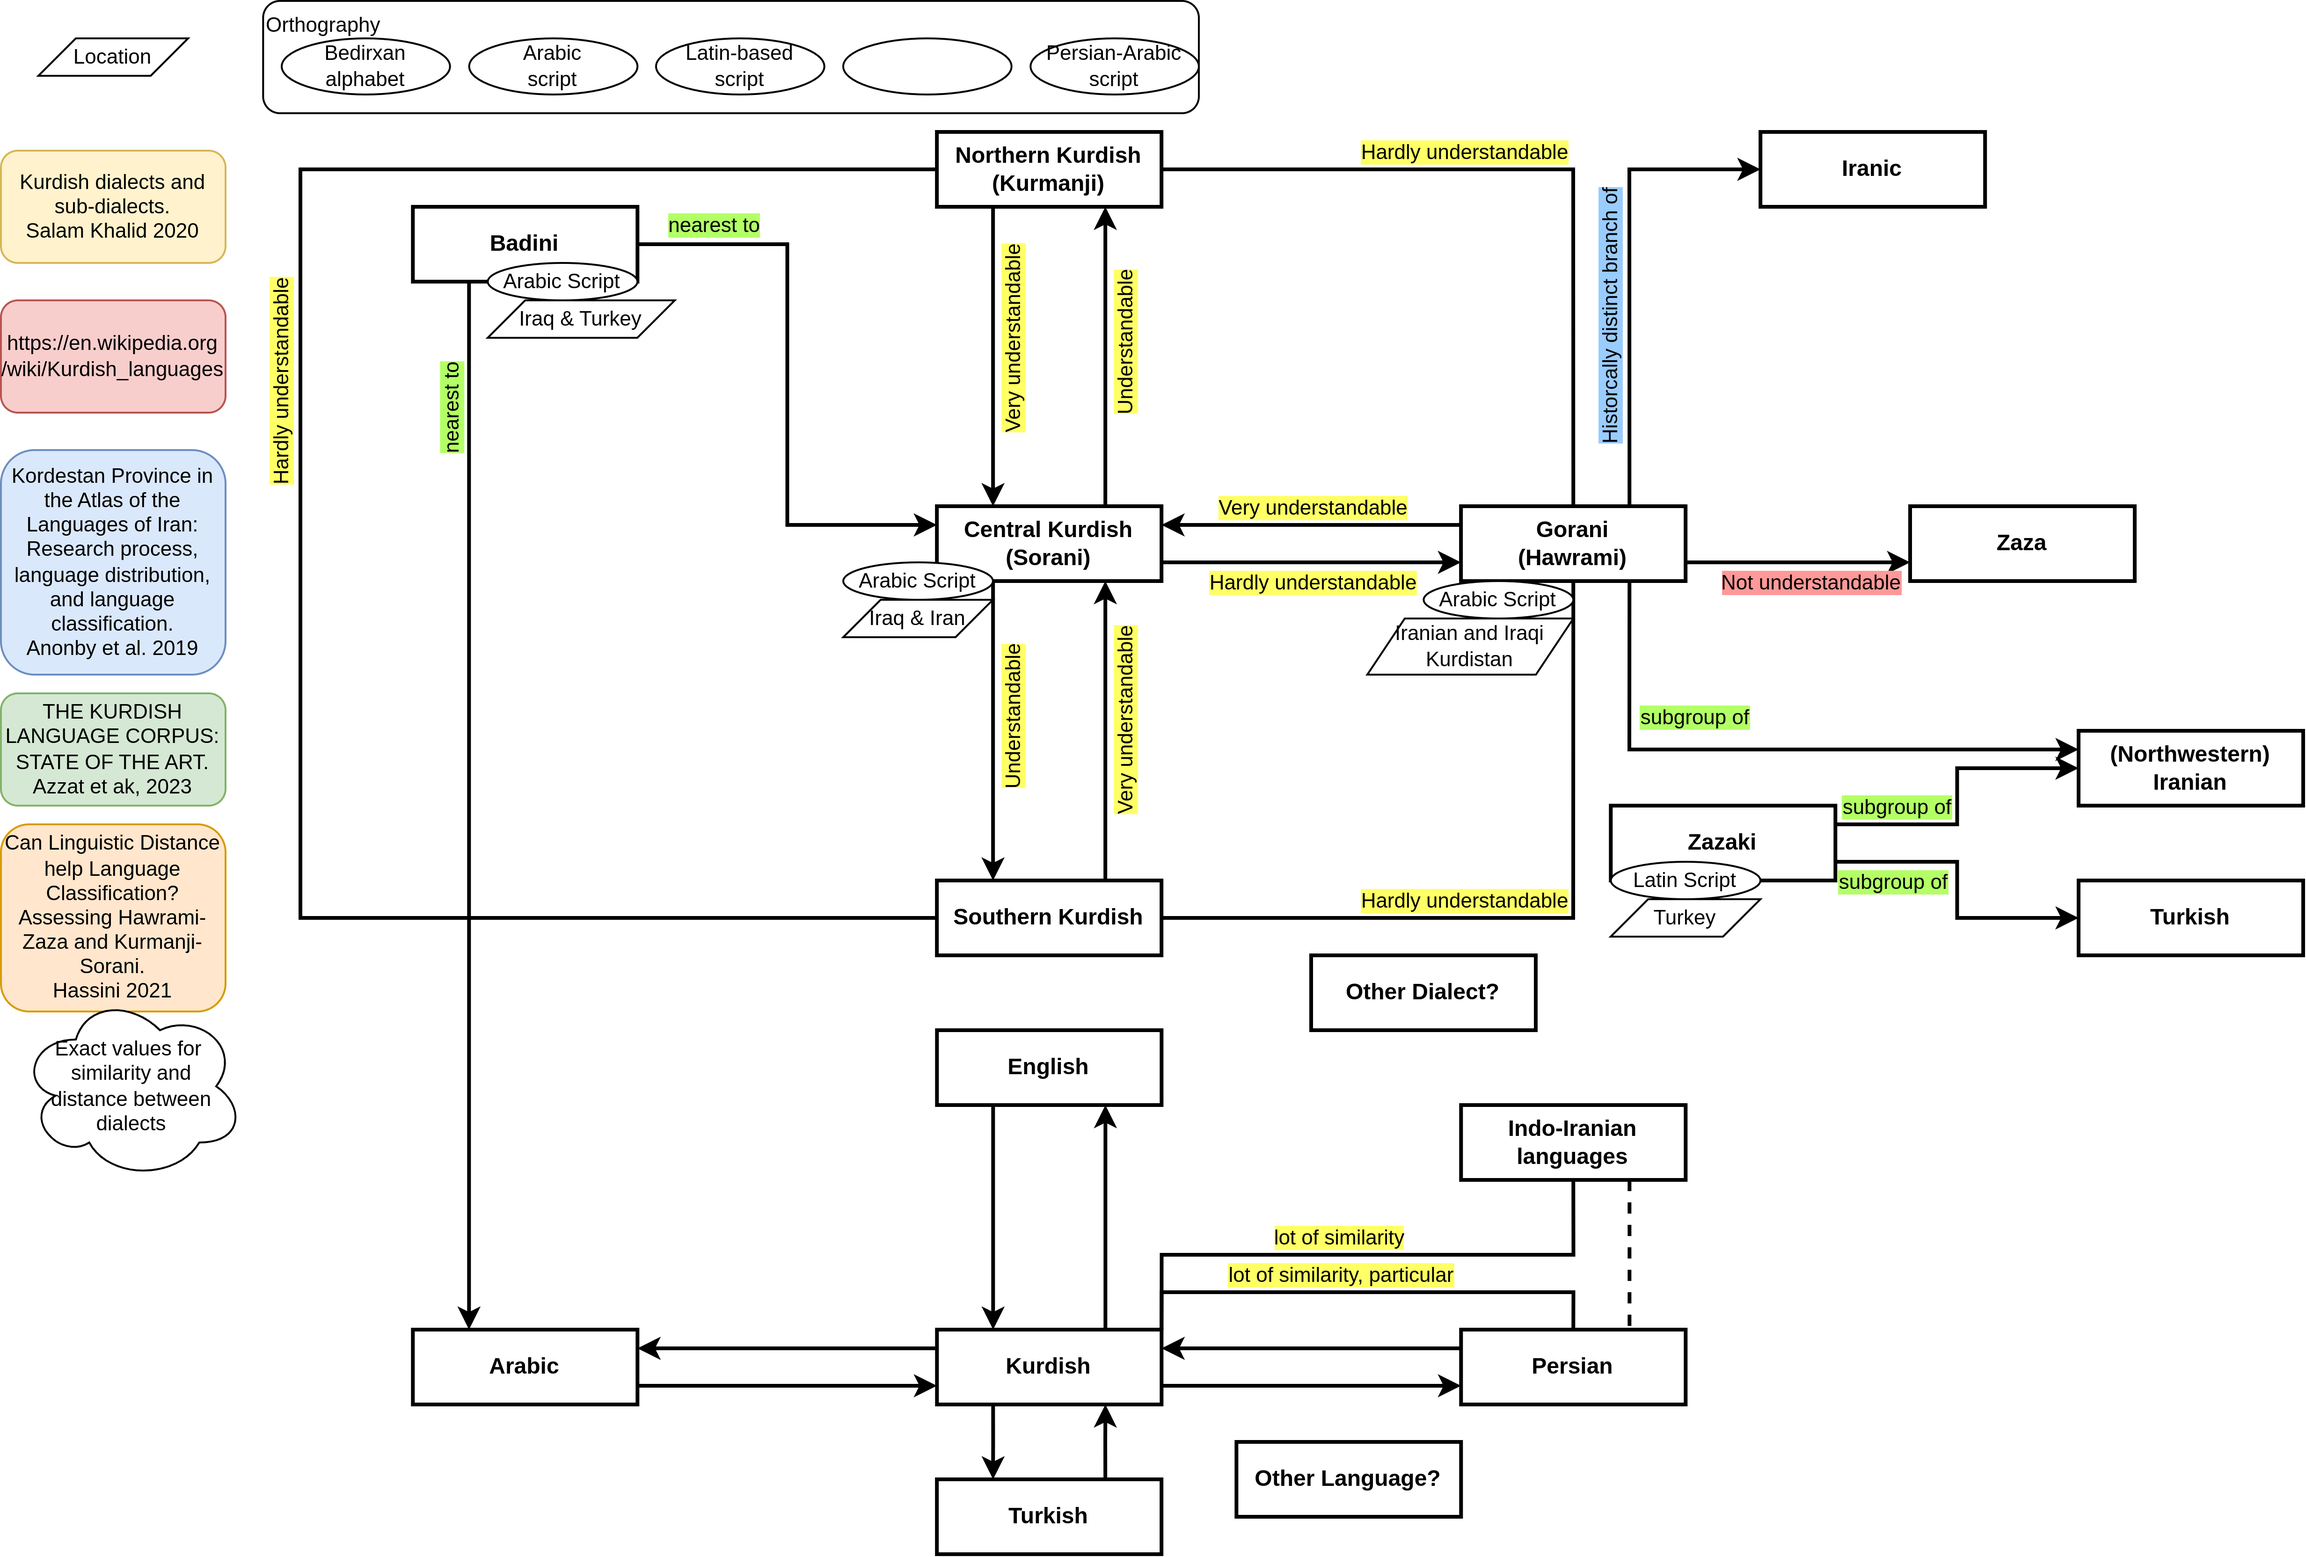
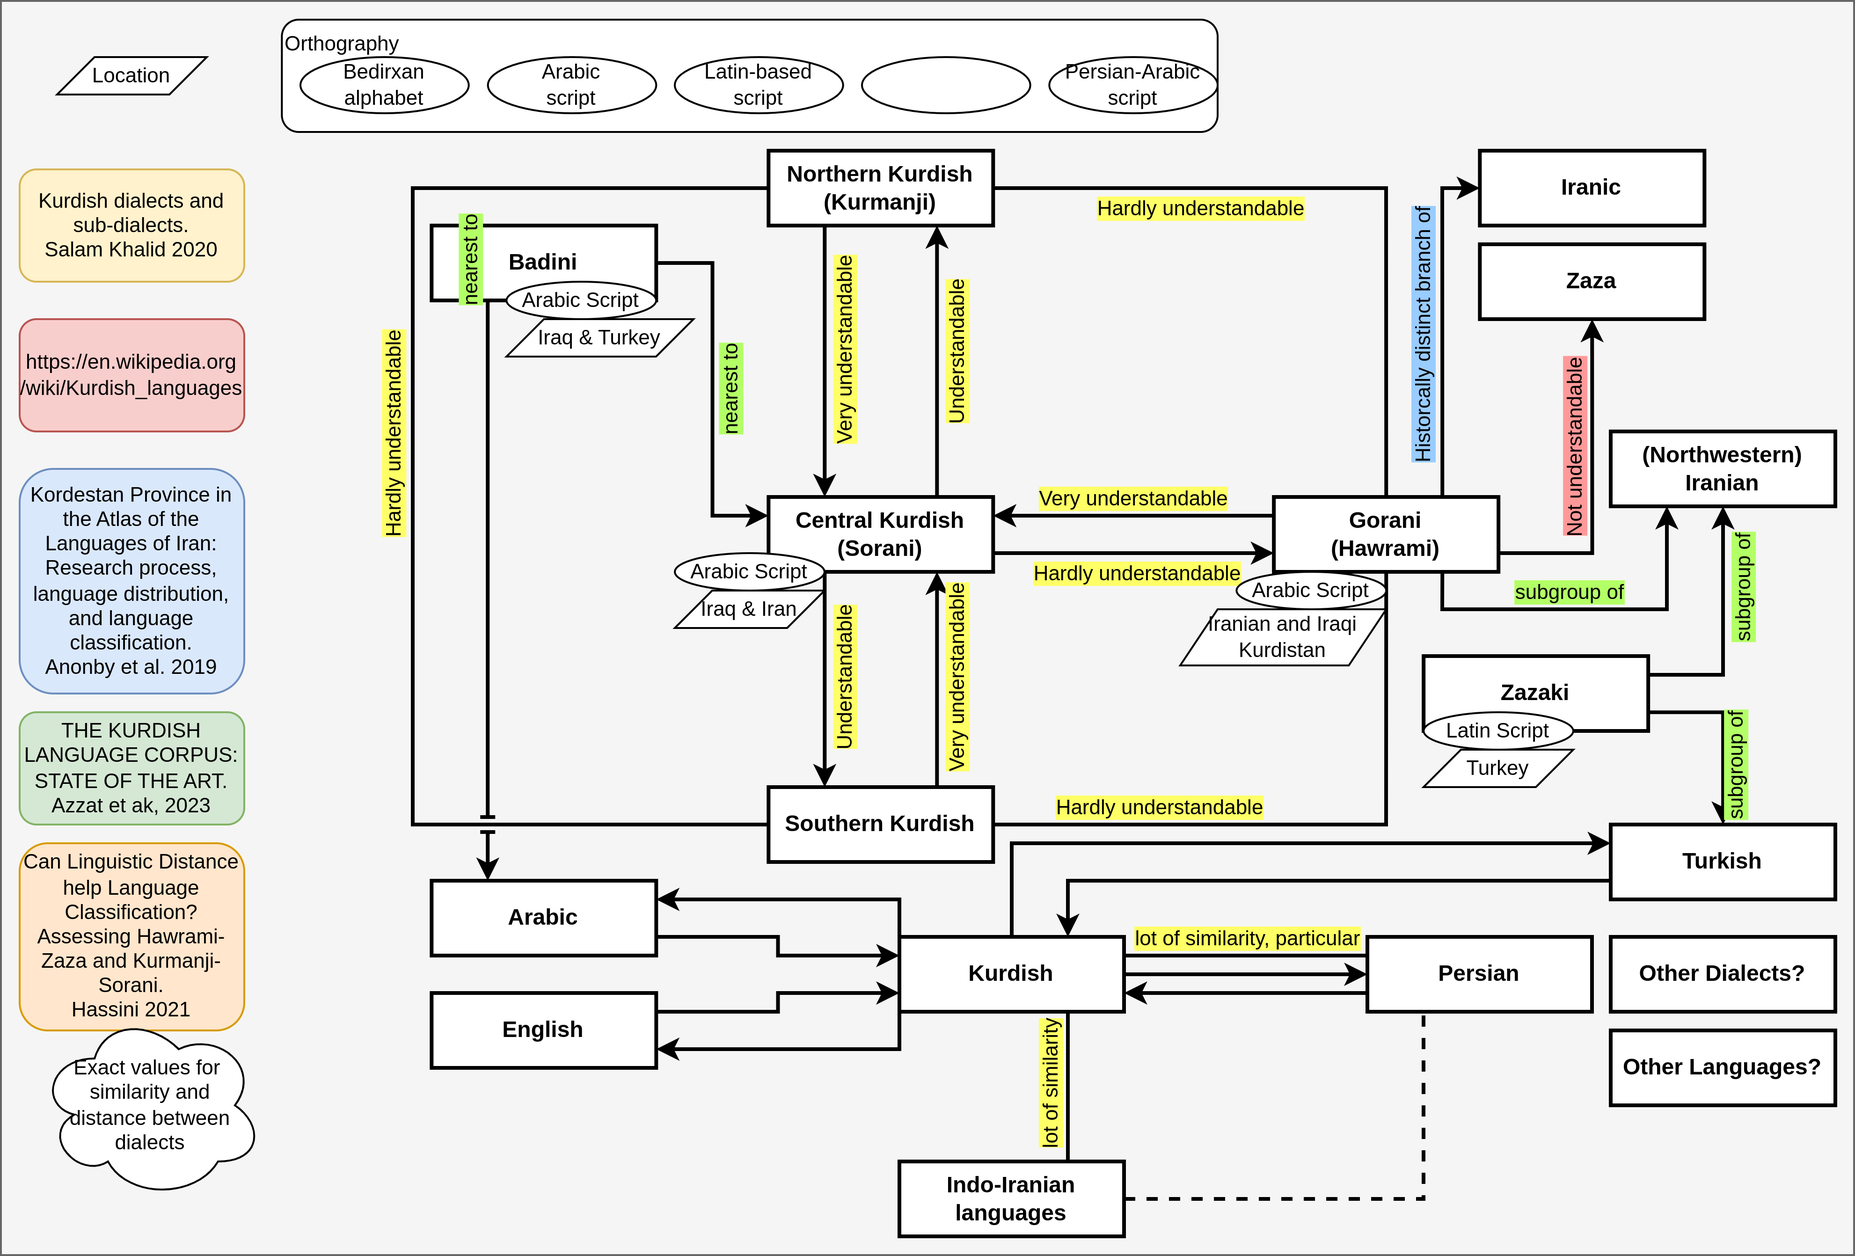
Update image

diff --git a/README.md b/README.md
@@ -77,6 +77,14 @@
 
 This will be an interactive map for various dialects from low-resource languages, with a focus on and starting with Kurdish.
 
+There exist a plathora of Kurdish dialects that are often unintelligible to the native speakers of each other. However, Kurdish is considered to be a dialect continuum with at times sudden language shifts and sometimes smooth transitions from one dialect to the neighboring one.
+At first it might seem confusing and counter intuitive that it has been found, that Central Kurdish is considered to be very understandable by speakers of Northern Kurdish and Southern Kurdish to be understandable by speakers of Central Kurdish- but speakers of Northern Kurdish hardly being able to understand Southern Kurdish. An explanation for this can be found in the prior mentioned dialect continuum- where "Central Kurdish" is not necessarily "Central Kurdish", since there exist many differen subdialects of Central Kurdish.
+
+[![Project Motivation Screen Shot][project-idea]](https://example.com)
+
+Utilizing an interactive map, visualizing the different aspects and geographical distribution of the separate dialects might enable new insights and at the very least an easier understanding of Kurdish linguistics.
+
+
 <p align="right">(<a href="#readme-top">back to top</a>)</p>
 
 
@@ -219,6 +227,6 @@ A list of helpful resources we would like to give credit to:
 [linkedin-shield]: https://img.shields.io/badge/-LinkedIn-black.svg?style=for-the-badge&logo=linkedin&colorB=555
 [linkedin-url]: https://www.linkedin.com/in/christian-schuler-59090a177/
 [project-screenshot]: images/DialectMapping-Concept.png
-
+[project-idea]: images/DialectMapping-Similarity.png
 
 
